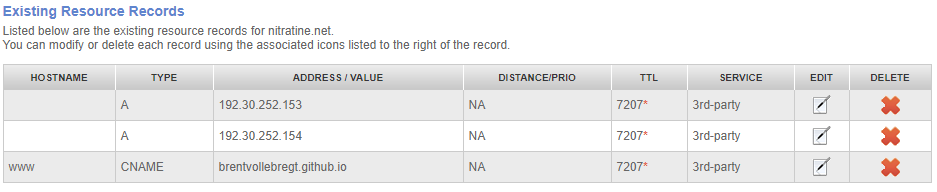
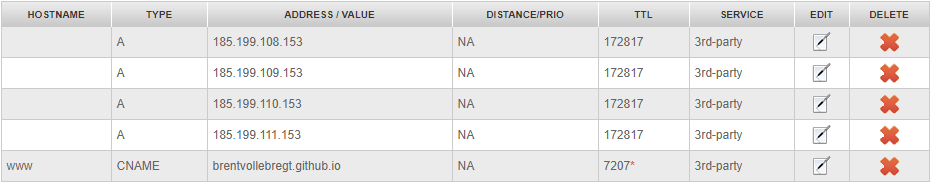
Update how-to-add-a-custom-domain-to-a-github-pages-site for new ips and SSL

diff --git a/_posts/2018-04-29-how-to-add-a-custom-domain-to-a-github-pages-site.md b/_posts/2018-04-29-how-to-add-a-custom-domain-to-a-github-pages-site.md
@@ -54,20 +54,25 @@ This is all that needs to be done for a www subdomain. GitHub will decided what 
 ### No WWW
 GitHubs article on setting this up can be found [here](https://help.github.com/articles/setting-up-an-apex-domain/) if you want reference.
 
-My site doesn't use www so I made it so that www is still routed to nitratine.net. To do this click "A" in the "Add/Edit a Resource Record" grey box.
+First you will need to add an A Record to 185.199.111.153. To do this click "A" in the "Add/Edit a Resource Record" grey box.
 
 ![Add Resource Record](/images/how-to-add-a-custom-domain-to-a-github-pages-site/add-resource-record.png)
 
-In this you want to insert `192.30.252.153` into "IPV4 ADDRESS" but leave the hostname field blank. You can leave the TTL as it is and click submit.
+In this you want to insert `185.199.111.153` into "IPV4 ADDRESS" but leave the hostname field blank. You can leave the TTL as it is and click submit.
 
 ![First IP](/images/how-to-add-a-custom-domain-to-a-github-pages-site/first-ip.png)
 
-Now do this again but this time put the ip address `192.30.252.154` in.
+Now repeat this another three times and use the ip addresses: `185.199.110.153`, `185.199.109.153` and `185.199.108.153`
 
-After that we will set up the www routing by clicking "CNAME" in the grey box. In here, add www to the HOSTNAME field and your current GitHub pages address to TARGET HOSTNAME. For example I would put brentvollebregt.github.io in this as it is where by GitHub page is currently hosted. Leave the TTL the same again and click submit.
+After that we will set up the www routing by clicking "CNAME" in the grey box. In here, add www to the HOSTNAME field and your current GitHub pages address to TARGET HOSTNAME. For example I would put brentvollebregt.github.io in this as it is where by GitHub page is currently hosted. Leave the TTL the same again and click submit. If you are confused about this look under the WWW sub-heading for how to do this.
 
-You should now have three entries in the "Existing Resource Records".
+You should now have five entries in the "Existing Resource Records" (4 A records and 1 CNAME).
 
 ![Existing Resource Records](/images/how-to-add-a-custom-domain-to-a-github-pages-site/existing-resource-records.png)
 
-GitHub will decided what url to use based on what you put in your Git repositories CNAME. You may have to wait a while until these entries are added by Namesilo but in my experience it is very quick.
+GitHub will decided what url to use based on what you put in your git repositories CNAME. You may have to wait a while until these entries are added by Namesilo but in my experience it is very quick.
+
+### SSL (Green Padlock)
+Following these steps and using the new IP addresses, you will now be provided SSL for free from Github with no extra effort.
+
+If this did not occur (it didn't work my first time I tried), go to the git repo on Github and then go to settings. Scroll down this page until you find the "GitHub Pages" block. In this block, there is a "Custom domain" header with an input field under it (just like we did in Setting Up CNAME in GitHub). Clear this field and click save. Now put your url in the input field (the one you just cleared) and save it. This reset of the url can trigger the SSL certificate generation and you should get SSL on your website in under a day.
